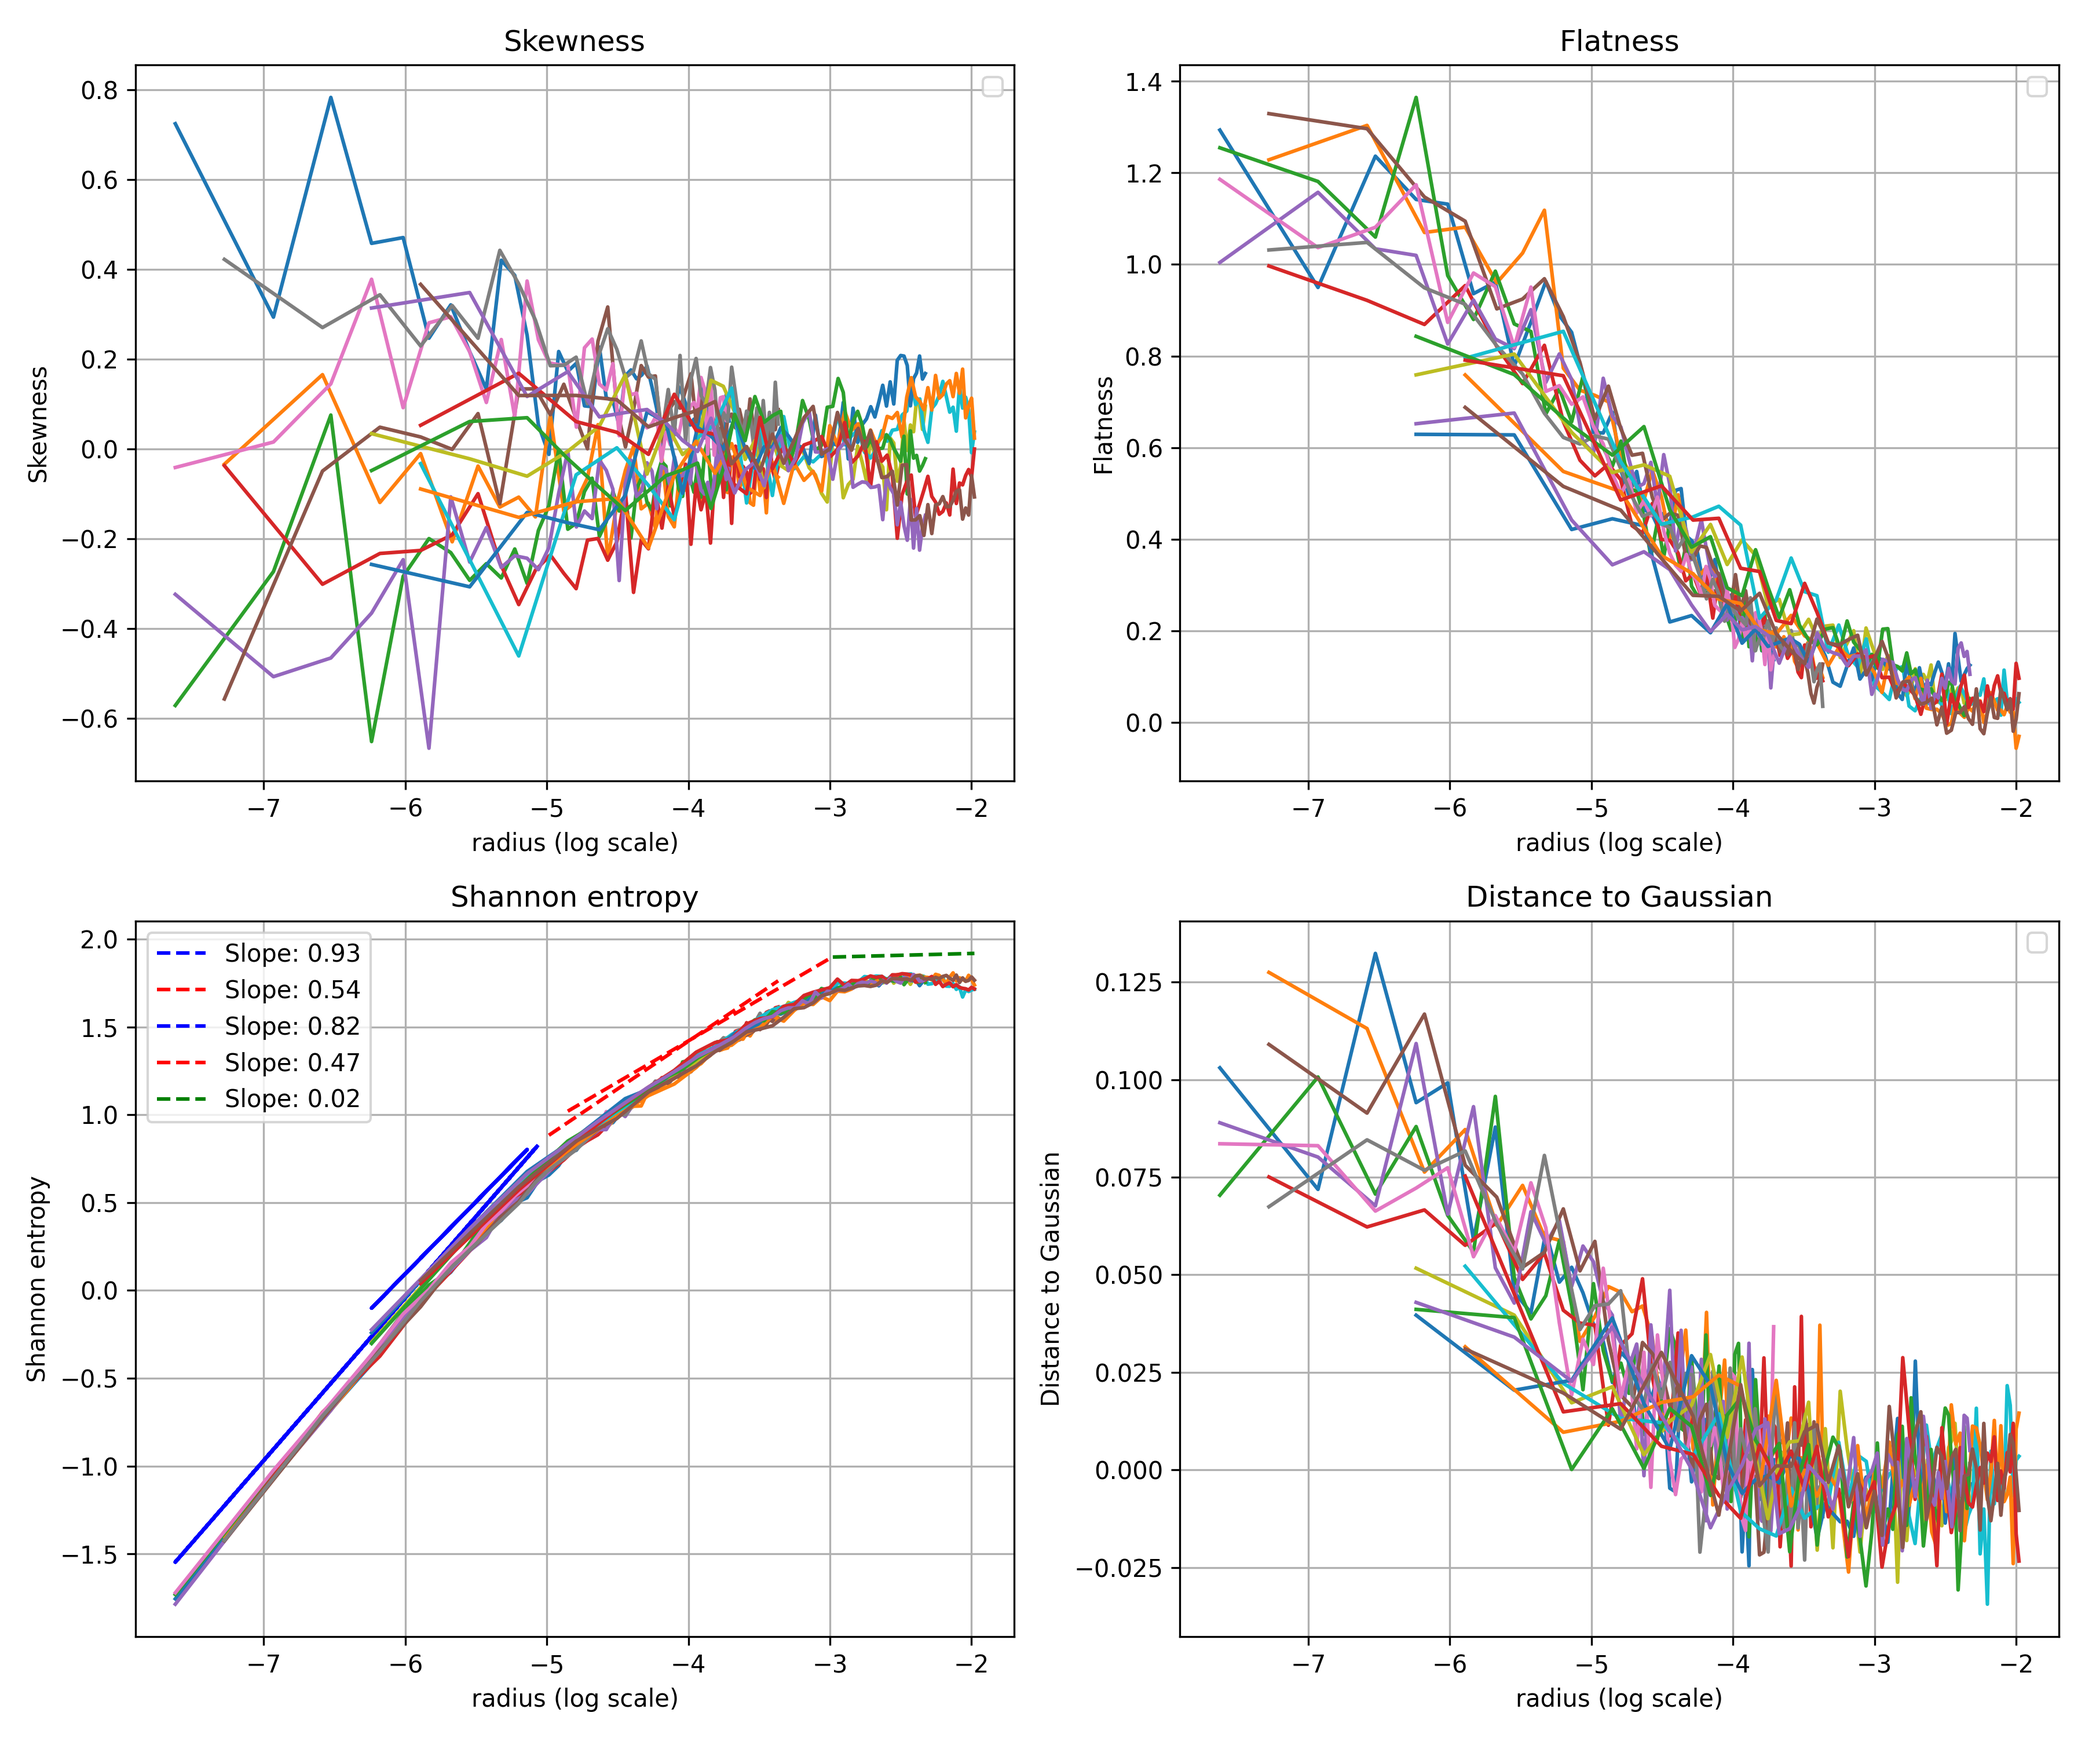
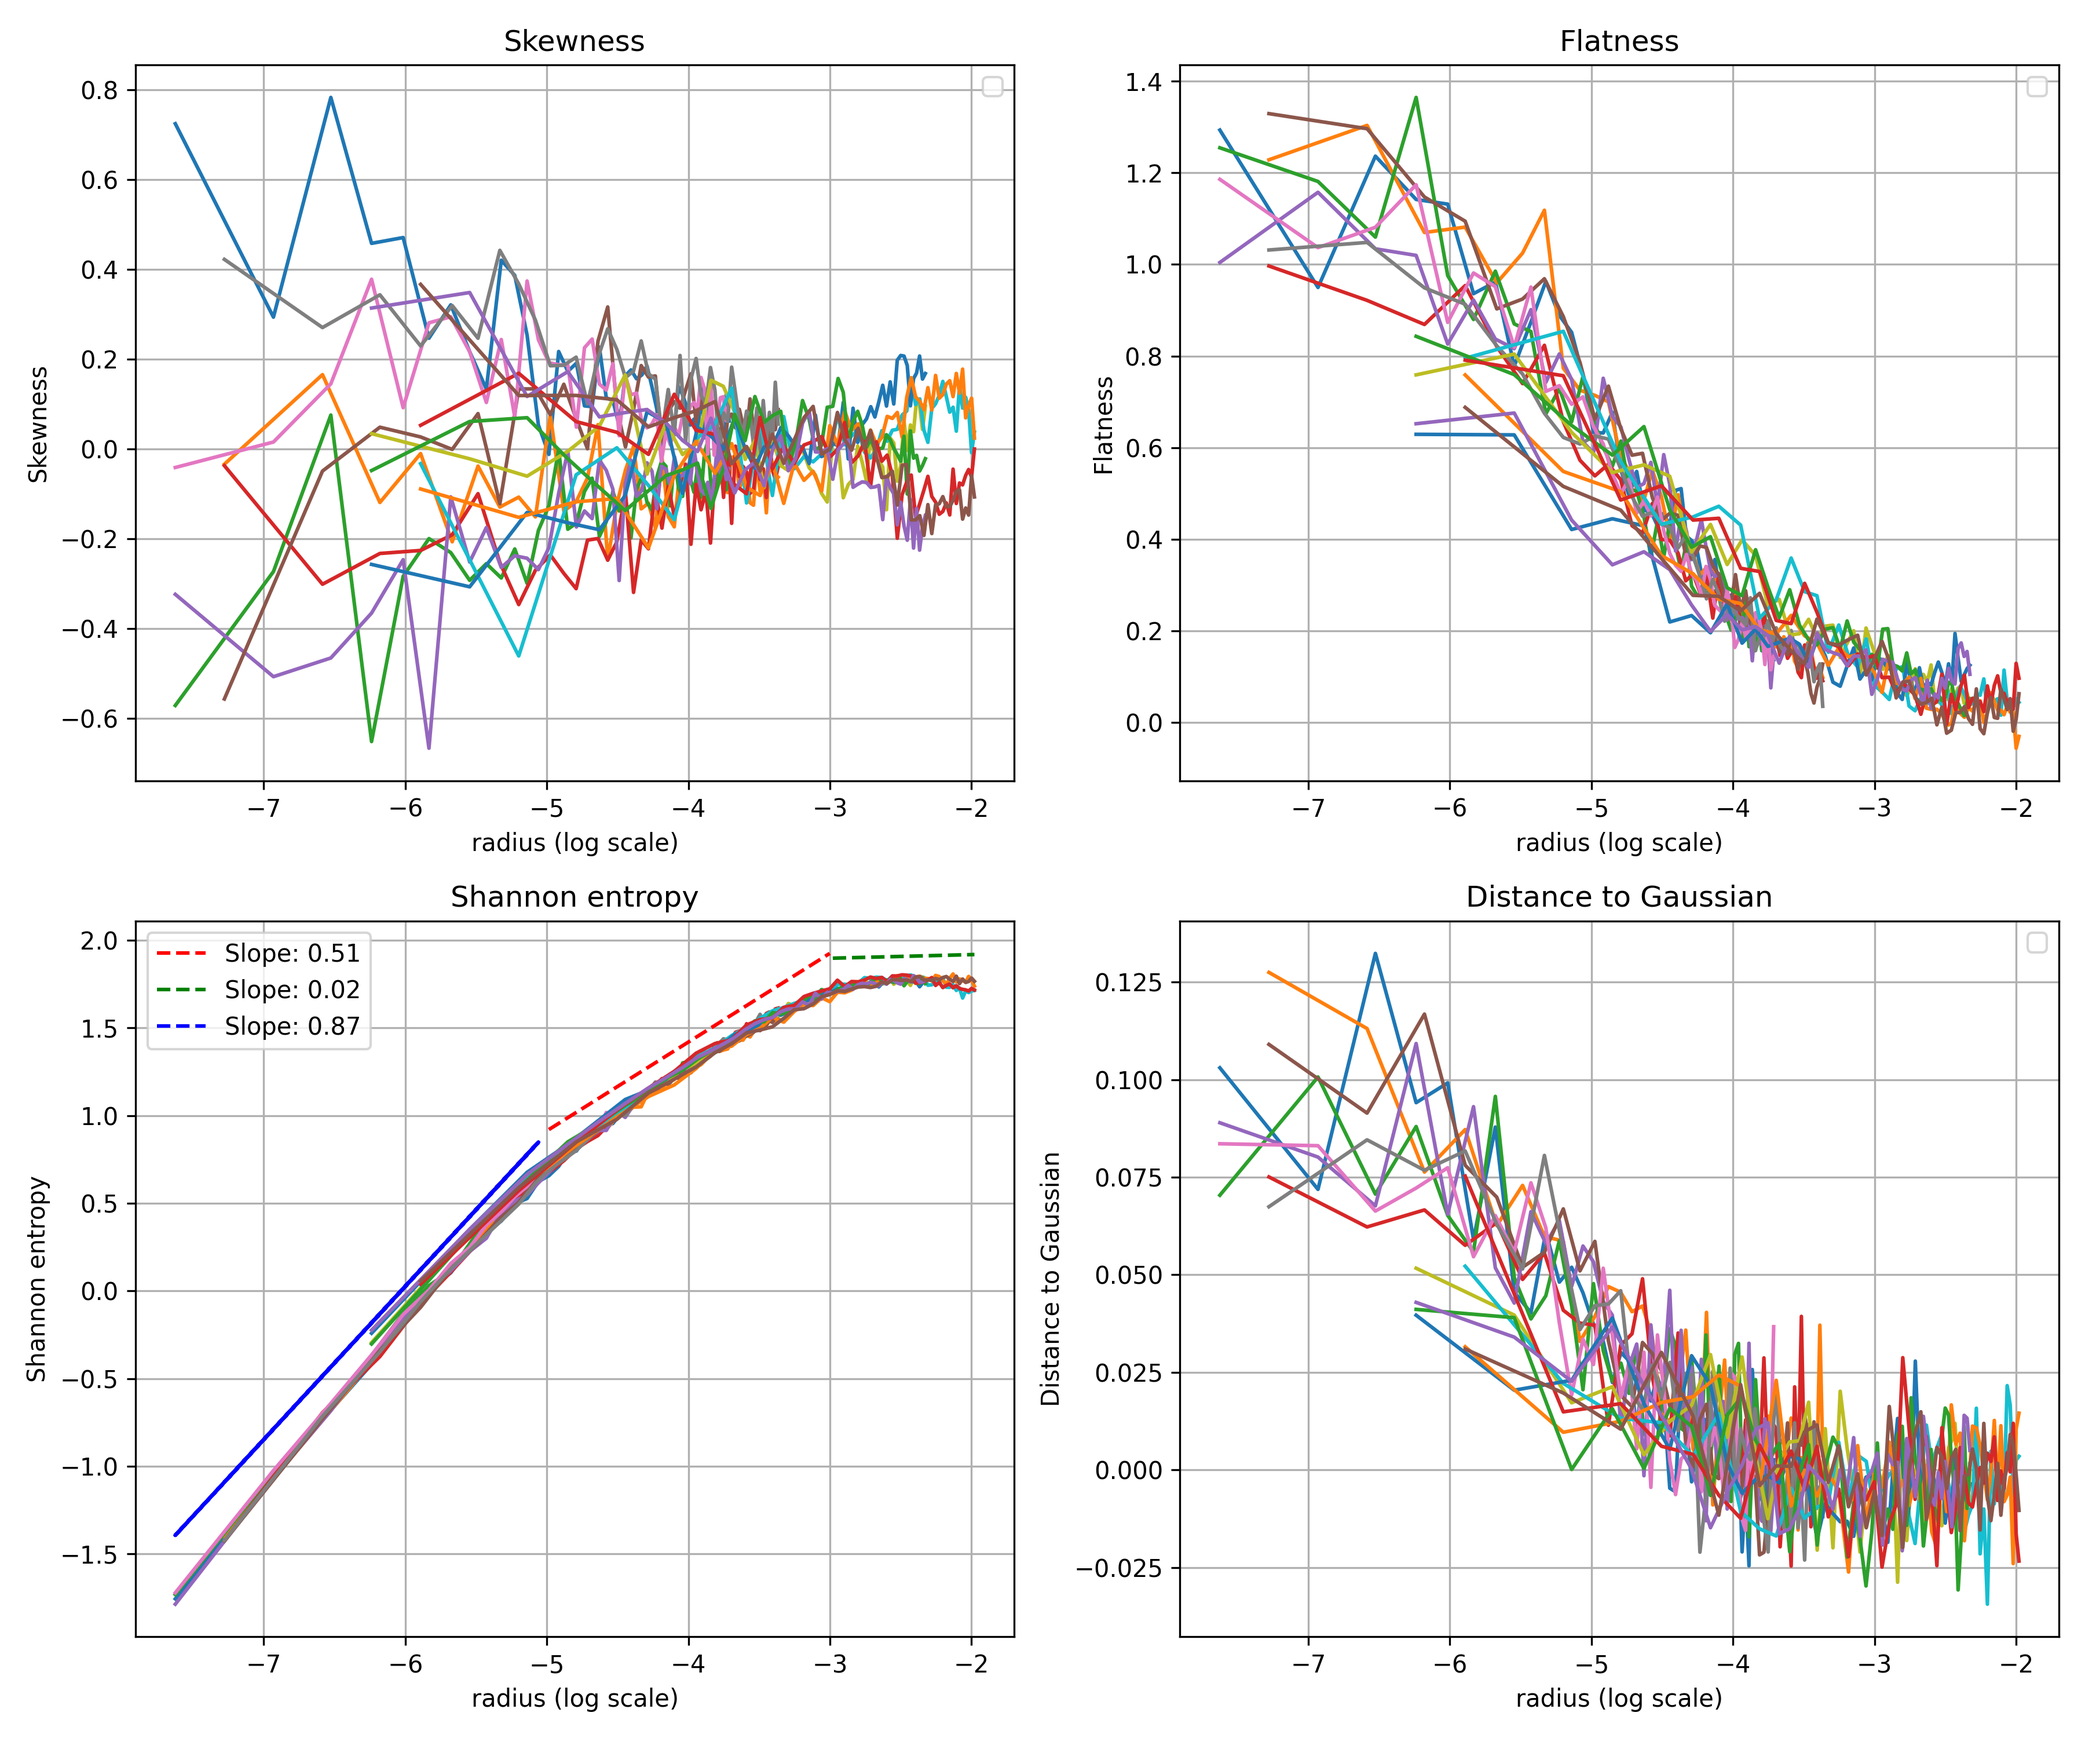
Cleaned the regressions

diff --git a/Plotting.py b/Plotting.py
@@ -14,10 +14,13 @@ import infomeasure as im # to compute information measures
 from dirs import dir, save_dir
 
 # Parameters definition
-sim_list = ['01', '02']
+sim_list = ['03', '04']
 n_sim = len(sim_list)
-scaleth_list= [75, 50]
-cutoff_radius = [-6, -5]
+scaleth_list= [50, 50]
+cutoff_radius = [-5, -3]
+
+data_chunks = [[] for k in range(len(cutoff_radius)+1)]
+coeffs_chunks = [[] for k in range(len(cutoff_radius)+1)]
 
 n_angles = 8
 
@@ -139,9 +142,10 @@ for j in range(n_sim):
 
                 if r_fit.size > 1:
                     coeffs = np.polyfit(r_fit, d_fit, 1)
-                    fit_line = np.polyval(coeffs, r_fit) + 0.15
-                    colors = ['red', 'green', 'blue']
-                    ax.plot(r_fit, fit_line, linestyle='--', color=colors[j], label="Slope: {:.2f}".format(coeffs[0]))
+                    
+                    if coeffs[0] >= 0:
+                        coeffs_chunks[j].append(coeffs)
+                        data_chunks[j].append(r_fit)                        
         
         # Plot all angles
         for k in range(n_angles):
@@ -155,6 +159,21 @@ for j in range(n_sim):
         ax.set_ylabel(titles[i])
         ax.legend()
         ax.grid(True)
+
+ax = axes[2]
+for i, r_fit in enumerate(data_chunks):
+    
+    data = np.concatenate(r_fit)
+    coeff_list = coeffs_chunks[i]
+    coeffs = np.zeros((len(coeff_list),2))
+    for j, elt in enumerate(coeff_list):
+        coeffs[j,:] = elt
+    coeffs = np.mean(coeffs, axis = 0)
+
+    fit_line = np.polyval(coeffs, data) + 0.15
+    colors = ['red', 'green', 'blue']
+    ax.plot(data, fit_line, linestyle='--', color=colors[i], label="Slope: {:.2f}".format(coeffs[0]))
+ax.legend()
 
 plt.tight_layout()
 plt.show()

diff --git a/Analyse_Spatial.py b/Analyse_Spatial.py
@@ -77,14 +77,10 @@ S2=np.zeros((len(scales),len(scales),Nreal))
 
 # Initialization of information measures
 
-# Skewness, flatness
+
 skewness = np.zeros((len(scales), len(scales), Nreal))
 flatness = np.zeros((len(scales), len(scales), Nreal))
-
-# Shanon entropy
 entropy = np.zeros((len(scales), len(scales), Nreal))
-
-# Distance to Gaussian distribution (Kullback-Leiber divergence)
 dist_gauss = np.zeros((len(scales), len(scales), Nreal))
 
 
@@ -101,7 +97,6 @@ for isx in range(len(scales)): #x dimension
             # Generation of increments
             incrs = Incrs_anisotropic_generator2d(WW, scalex, scaley)
 
-            # flatten incrs to get a vector
             incrs = incrs.flatten()
 
             incrs = np.random.permutation(incrs)[0:int(len(incrs)/Nanalyse)*Nanalyse].reshape(-1,Nanalyse)
